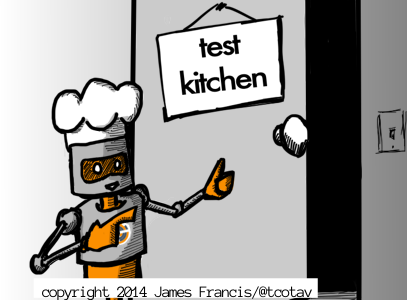
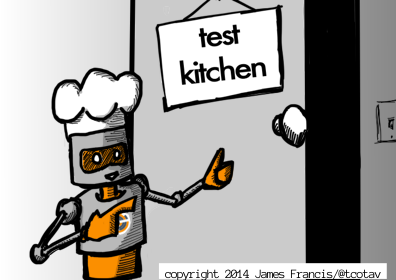
added some pictures

Changed region(s): [[0.0606, 0.0, 1.0, 1.0]]

diff --git a/Notes.md b/Notes.md
@@ -60,7 +60,9 @@ Git sanity check:
 And we're golden.  Next: test kitchen
 
 
-![alt text](images/chefdk-tk1.png "ChefDK Test Kitchen")
+<p align="center">
+  <img src='images/chefdk-tk1.png' alt="ChefDK Test Kitchen" />
+</p>
 ### setting up test kitchen
 
 With ChefDK installed, you've got test-kitchen all ready installed.  We're going to use it to write some tests for the cookbook that we're going to write in the latter steps so first things first.
@@ -241,6 +243,10 @@ We've got our supporting cookbooks.  Now let's take a little step to using them.
 
 ### First Cookbook Recipe
 
+<p align="center">
+  <img src='images/chefdk-knife.png' alt="Knife!!!!" />
+</p>
+
 If we run our kitchen job again, it will run the chef client on our virtual node.  It will use the runlist we specified in the `.kitchen.yml` but it still won't do anything.  Why's that?  Because we haven't done anything with the default recipe in jdemo.  Let's crack that file at:
 
 `cookbooks/jdemo/recipes/default.rb`
@@ -258,7 +264,7 @@ Do a quick check-in to git (because that's how we all roll and we're on the dev 
 
 Now we're going to see if what we put into place will work -- we'll use the converge command to once again spin up the chef run on the node.  This time though, we gave the recipe something to do.  Several somethings in fact as you'll see from the output of the following command:
 
-  $ kitchen converge
+    $ kitchen converge
 
 Well I'm not going to lie -- that command just exploded all over my console.  TO THE WET WIPES!
 
@@ -354,6 +360,10 @@ And what to my wondering eyes did appear?  Well, not a lot of red error messages
 Man, that was such a rabbit hole dive I need to take a moment to figure out what in the world was going on before it.
 
 (time passes)
+
+<p align="center">
+  <img src='images/chefdk-poke.png' alt="Testing Revealed" />
+</p>
 
 ### And now ACTUAL TESTING will occur
 
@@ -500,11 +510,14 @@ TBD -- this should magically work.  It does not.  So we delay for now.  I'm goin
 
 (time passes)
 
+<p align="center">
+  <img src='images/chefdk-sspec.png' alt="Server Spec" />
+</p>
 ### Adding Serverspec
 
 Now we're going to jury rig `serverspec` into our example and duplicate the `bats` testing that we did above.  Serverspec is another test platform that tests your actual servers via ssh.
 
-But wait, why would we write the same tests AGAIN?  What sort of testing is done by chefspec/bats and what is done by serverspec.  Well it is good that you asked that, Timmy.  Take a seat and let's fire up the magic whiteboard.  The heart of it is that we can run serverspec against any hosts.  So we're essentially writing tests that can be applied to deployments in QA, Dev, Stage, Production, and any other exotic sci-fi themed environment name you've got at your company.  It is portable.  If you can see it and ssh to it, you can run serverspec against it.  Kabooomz!]
+But wait, why would we write the same tests AGAIN?  What sort of testing is done by chefspec/bats and what is done by serverspec.  Well it is good that you asked that, Timmy.  Take a seat and let's fire up the magic whiteboard.  The heart of it is that we can run serverspec against any hosts.  So we're essentially writing tests that can be applied to deployments in QA, Dev, Stage, Production, and any other exotic sci-fi themed environment name you've got at your company.  It is portable.  If you can see it and ssh to it, you can run serverspec against it.
 
 That's all well and good, but for now, we just want test kitchen to spin up something and run serverspec tests against it.  We'll come back to testing against additional nodes.
 
@@ -542,7 +555,7 @@ First lets tell kitchen what we're doing.  We edit the `.kitchen.yml` file so th
           - recipe[jdemo::default]
         attributes:
 
-We added the server suite.  We'll make use of that shortly.
+We added the `server` suite.  We'll make use of that shortly.
 
 ### Initializing serverspec
 
@@ -583,7 +596,7 @@ How unexciting and unoriginal is that?  We just replicated the same tests we did
 
 So again, we run the same command to get this test going.  Note, since we moved this test into a separate suite, kitchen will build out a completely separate vm to work against.  I say this just so you're not surprised at how long this takes (just for the first go-around) and disk usage.
 
-`kitchen verify`
+    $ kitchen verify
 
 Fire that puppy off.  It will run both the default tests as well as the new server (serverspec based) tests.  Here's what a run of that should look like:
 
